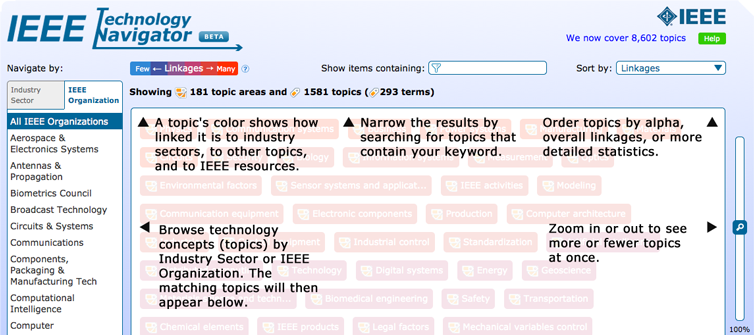
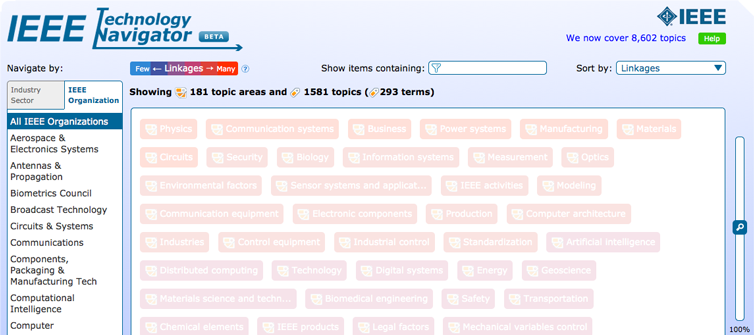
Changed diagram over to html text; increased panel bg opacity.

diff --git a/templates/ajax_welcome.html b/templates/ajax_welcome.html
@@ -18,7 +18,41 @@
 	    
 	    <dt>Get Started</dt>
 	    <dd style="text-align:center">
-	        <img src="/media/images/get-started-diagram.png"> <br/>
+	        <div id="get-started-diagram">
+	            <div class="help-col-left" class="help-col">
+                    <table><tr>
+                        <td class="help-arrow-container"><img src="{{MEDIA_URL}}images/help-arrow-dark.png"/></td>
+                        <td>A topic's color shows how linked it is to industry sectors, to other topics, and to IEEE resources.</td>
+                    </tr></table>
+                    <div>
+                        <table><tr>
+                            <td class="help-arrow-container"><img src="{{MEDIA_URL}}images/help-arrow-left-dark.png"/></td>
+                            <td>Browse technology concepts (topics) by Industry Sector or IEEE Organization. The matching topics will then appear below.</td>
+                        </tr></table>
+                    </div>
+                </div>
+                <div class="help-col-mid" class="help-col">
+                    <table><tr>
+                        <td class="help-arrow-container"><img src="{{MEDIA_URL}}images/help-arrow-dark.png"/></td>
+                        <td>Narrow the results by searching for topics that contain your keyword.</td>
+                    </tr></table>
+                </div>
+                <div class="help-col-right" class="help-col">
+                    <table><tr>
+                        <td>Order topics by alpha, overall linkages, or more detailed statistics.</td>
+                        <td class="help-arrow-container-right"><img src="{{MEDIA_URL}}images/help-arrow-dark.png" style="padding-left:5px"/></td>
+                    </tr></table>
+                    <div style="padding-top:35px">
+                        <table><tr>
+                            <td>Zoom in or out to see more or fewer topics at once.</td>
+                            <td class="help-arrow-container-right"><img src="{{MEDIA_URL}}images/help-arrow-right-dark.png" style="padding-left:5px"/></td>
+                        </tr></table>
+                    </div>
+                    <div id="hide-help-box">
+                        <a href="javascript:void(0)" class="close-help" id="help-close-button" rel="nofollow">Hide</a> 
+                    </div>
+                </div>
+            </div>
 	        <span id="goBtn" class="lightbox-close">Technology Navigator Go!</span>
 	    </dd>
 

diff --git a/templates/textui.html b/templates/textui.html
@@ -241,7 +241,7 @@
                     <div style="float:left;width:96%;">
                     
                     <div id="tag-help-box" style="display:none">
-                        <div id="help-col-left" class="help-col">
+                        <div class="help-col-left" class="help-col">
                             <table><tr>
                                 <td class="help-arrow-container"><img src="{{MEDIA_URL}}images/help-arrow.png"/></td>
                                 <td>A topic's color shows how linked it is to industry sectors, to other topics, and to IEEE resources.</td>
@@ -253,7 +253,7 @@
                                 </tr></table>
                             </div>
                         </div>
-                        <div id="help-col-mid" class="help-col">
+                        <div class="help-col-mid" class="help-col">
                             <table><tr>
                                 <td class="help-arrow-container"><img src="{{MEDIA_URL}}images/help-arrow.png"/></td>
                                 <td>Narrow the results by searching for topics that contain your keyword.</td>
@@ -273,7 +273,7 @@
                                 </div>
                             </div>
                         </div>
-                        <div id="help-col-right" class="help-col">
+                        <div class="help-col-right" class="help-col">
                             <table><tr>
                                 <td>Order topics by alpha, overall linkages, or more detailed statistics.</td>
                                 <td class="help-arrow-container-right"><img src="{{MEDIA_URL}}images/help-arrow.png" style="padding-left:5px"/></td>

diff --git a/media/css/lightbox.css b/media/css/lightbox.css
@@ -362,6 +362,32 @@ input.text {
     font-size: 10pt;
 }
 
+#get-started-diagram {
+   background: url(/media/images/get-started-diagram.png) 0 0 #FFFFFF;
+   display: inline-block;
+   width: 754px;
+   height: 335px;
+   text-align: left;
+}
+
+#get-started-diagram .help-col-left {
+    margin-left: 140px;
+    margin-top: 116px;
+    width: 190px;
+    margin-right: 30px;
+}
+
+#get-started-diagram .help-col-mid {
+    width: 185px;
+    margin-top: 116px;
+}
+
+#get-started-diagram .help-col-right {
+    width: 140px;
+    margin-top: 116px;
+    margin-right: 35px;
+}
+
 .slidedeck #goBtn.lightbox-close {
     background: none repeat scroll 0 0 #33CC00;
     color: #FFFFFF;

diff --git a/media/css/style.css b/media/css/style.css
@@ -1677,24 +1677,27 @@ p.export {
     text-align: left;
 }
 
-#help-col-left {
+.help-col-left {
     float: left;
     width: 235px;
+    text-align: left;
 }
 
-#help-col-left div {
-   padding-top: 37px;
+.help-col-left div {
+   padding-top: 30px;
 }
 
-#help-col-mid {
+.help-col-mid {
     margin: 0 auto;
     display: inline-block;
     width: 257px;
+    text-align: left;
 }
 
-#help-col-right {
+.help-col-right {
     float: right;
     width: 210px;
+    text-align: left;
 }
 
 #help-icon {
@@ -1716,7 +1719,7 @@ p.export {
 }
 
 #hide-help-box {
-   padding-top: 61px;
+   padding-top: 53px;
    font-size: 9pt;
    text-align: right;
 }
